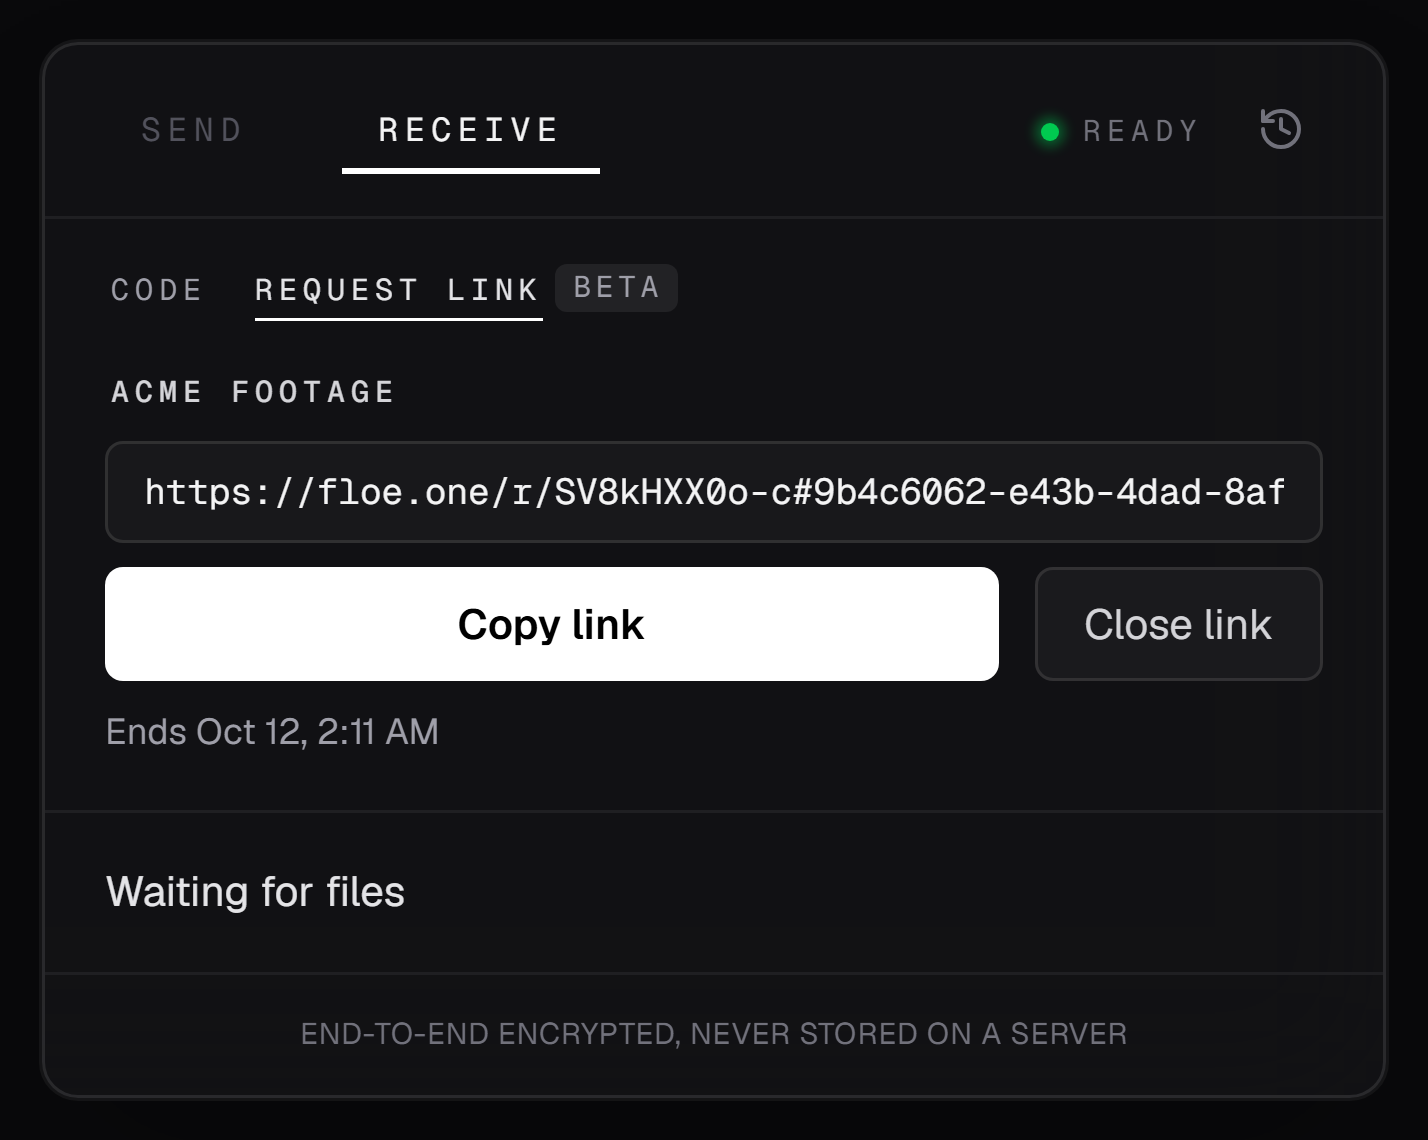
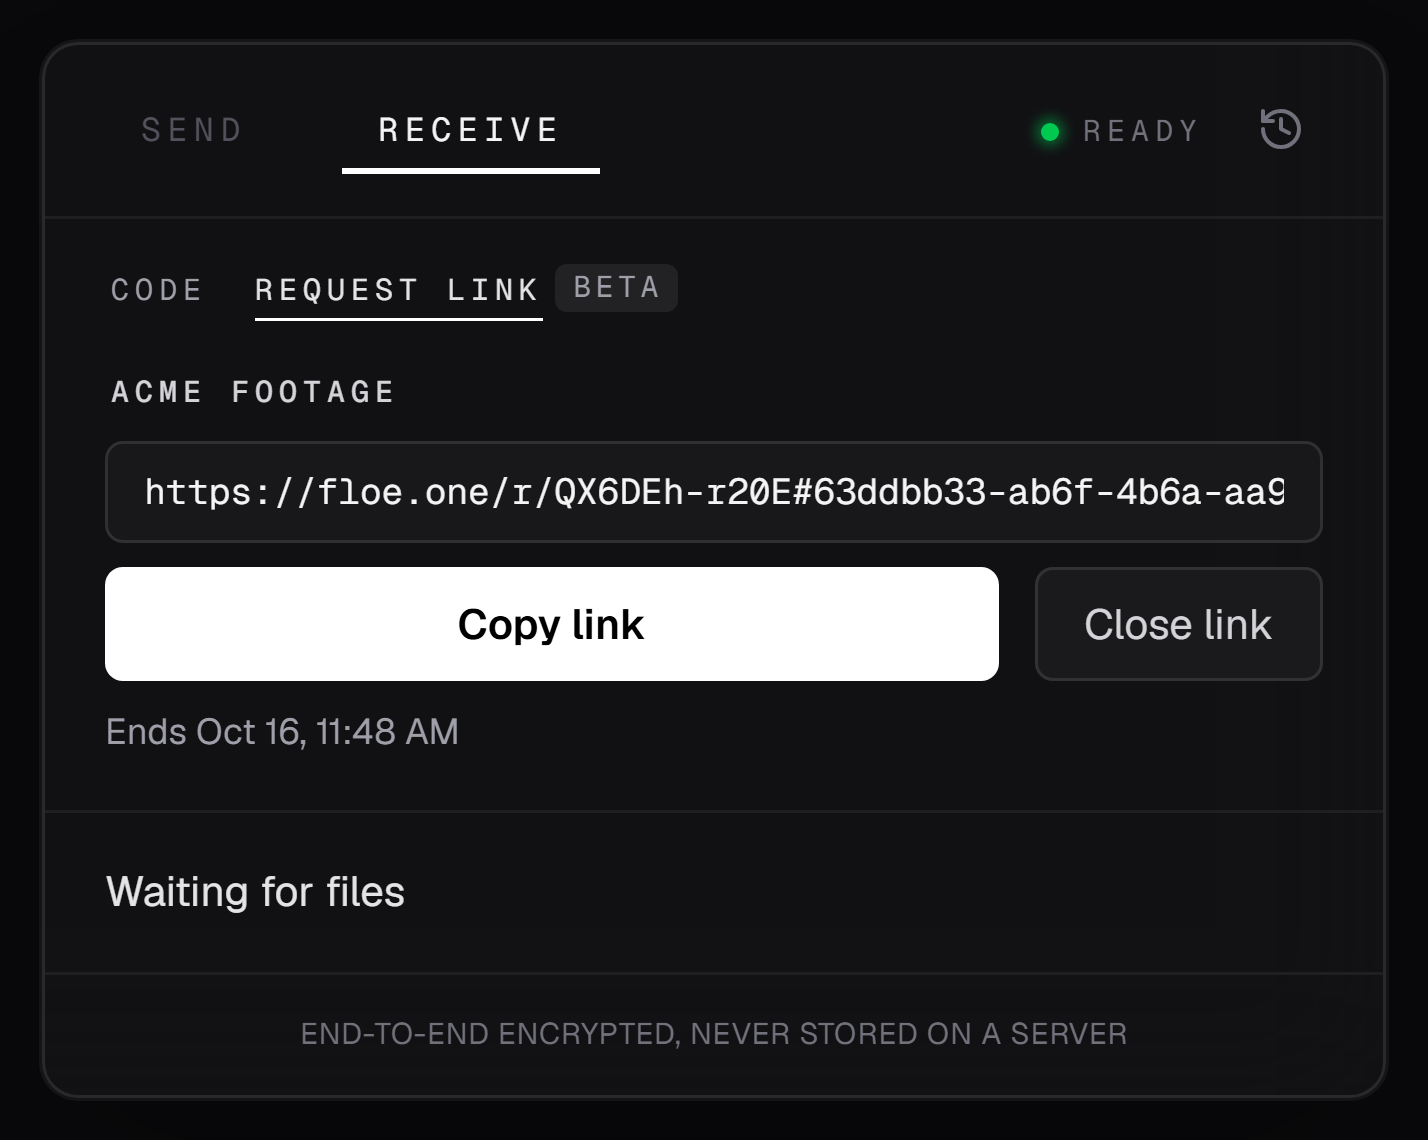
docs: 0.3.1 pictures, version examples, and the lines the releases add
- The eight Floe Desktop pictures are re-taken from the release tree (the
  left rail and the request-link lines changed), and the capture manifest
  records the strings each one shows and the files they come from.
- Version examples on the pages this PR rewrites move to v1.11.1 and
  desktop-v0.3.1: sample output, Peer version lines, the ver field, image
  tags, the installer name and the Store package version. Sentences about
  older versions keep their numbers.
- Troubleshooting: a connection that fails while the two devices are still
  connecting reads "Couldn't connect the two devices" from 0.3.1; 0.3.0
  showed "The connection dropped before the transfer finished" there.
- Sending from the web app: what the page shows when floe receive answers
  no at its prompt.
- SELF_HOSTING.md lists TURN_TLS.
- The privacy page's "Send with Floe" paragraph says when the installer
  and the portable build add the entry, as the app now does (approved
  proposal A9-W4).

diff --git a/client/app/privacy/page.tsx b/client/app/privacy/page.tsx
@@ -598,15 +598,19 @@ export default function PrivacyPolicy() {
                             term: 'Right-click menu',
                             body: (
                                 <p>
-                                    The GitHub build adds a &quot;Send with Floe&quot; entry to the
-                                    File Explorer right-click menu. It is on by default: the first time
-                                    the app runs it writes one per-user registry key (with a command
-                                    subkey) that holds the app&apos;s location, and if you move the app
-                                    it rewrites that key at the next start. Turn off &quot;Show in
-                                    right-click menu&quot; in Settings and the key is removed; the
-                                    installer&apos;s uninstall removes it too. The portable zip has no
-                                    uninstaller, so turn the switch off before deleting that build. The
-                                    Microsoft Store build does not offer this entry.
+                                    The GitHub build can add a &quot;Send with Floe&quot; entry to the
+                                    File Explorer right-click menu. To turn it off, use &quot;Show in
+                                    right-click menu&quot; in Settings, and the entry is removed. The
+                                    installer build turns it on by default: each time the app starts
+                                    and the entry is missing, it writes one per-user registry key (with
+                                    a command subkey) that holds the app&apos;s location, unless you
+                                    have turned the switch off. The portable zip adds the entry only
+                                    after you turn the switch on. Floe never touches an entry that
+                                    belongs to another copy of the app, and repairs or removes one
+                                    whose program is gone. The installer&apos;s uninstall removes the
+                                    key too. The portable zip has no uninstaller, so turn the switch
+                                    off before deleting that build. The Microsoft Store build does not
+                                    offer this entry.
                                 </p>
                             ),
                         },

diff --git a/.claude/skills/docs-verify/references/claim-map.md b/.claude/skills/docs-verify/references/claim-map.md
@@ -240,7 +240,7 @@ Script (`links`). cli/cmd/floe/main.go and cli/cmd/floe/update.go (one `https://
 - The update notice: `CheckForUpdate` and `checkForUpdate` (desktop/updatecheck.go: never for a local build, a Store install, the Settings switch off or `FLOE_NO_UPDATE_CHECK`), `updateCacheTTL` (the once-a-day bound), `defaultReleasesURL` (the list endpoint, prereleases kept) and `updateCachePath`; `UpdateNotice` (desktop/frontend/src/components/Toasts.tsx) is the dismissible notice and `DOWNLOAD_URL` (desktop/frontend/src/update.ts) is where it points. The release the page names as the first with the notice is the `<Update>` entry of docs/changelog.mdx that introduced it; no symbol holds it.
 - What an uninstall leaves: `configPath` and `webviewDataPath` (desktop/config.go) and `updateCachePath`, all in the folder under `os.UserConfigDir()` that `cacheFilePath` (cli/internal/selfupdate/version.go) writes to as well, hence "only delete it if you are removing both". Outside that folder: the registry value `setToastDisplayName` writes and the icon `ensureToastIcon` restores in the temp folder (desktop/toast_windows.go), which the page lists for the builds from GitHub. `DisableContextMenu` (desktop/contextmenu.go) is what the portable build's "turn it off first" step runs. The shared default server is `defaultServer` (desktop/endpoints.go) and the default of `flagServer` (cli/cmd/floe/main.go).
 - The uninstaller after desktop-v0.3.0 (A3-B2): the `uninstall` section of project.nsi deletes `${PRODUCT_EXECUTABLE}` (the one file `wails.files` writes) and uninstall.exe by name, then a plain `RMDir $INSTDIR`, which goes only when the folder is empty; `TestUninstallerRemovesOnlyWhatItInstalled` (desktop/installer_test.go) fails on any `RMDir /r` and on a file the installer writes that the uninstaller never deletes. It still deletes the Explorer key whichever copy owns it (DESKTOP-03). Other leftovers: `keepUnreadableConfig` (desktop/config.go) keeps a `desktop.json` that does not parse as `desktop.json.bad` before the defaults are written (A3-B3); `sweepTextTemps` and `sweepStagingTemps` (desktop/transfer.go, run from desktop/app.go at startup and shutdown) remove `floe-text-*` staging folders (A3-B6). Docs: docs/desktop/installation.mdx "Uninstall", docs/desktop/settings.mdx "Where settings are stored", docs/security-privacy.mdx "In Floe Desktop".
-- The Explorer entry at launch (DSK-04, after desktop-v0.3.0): `ContextMenuState` (desktop/contextmenu.go) answers through `contextMenuStateOf`: "self" when the command runs this executable (`sameProgram`: letter case ignored on Windows, DESKTOP-02), "other" for another copy that exists or a command in a shape Floe never writes, "dead" for Floe's shape whose program is gone (DESKTOP-01), "missing" for no entry, "packaged" in a Store build. `initCtxMenu` (desktop/frontend/src/App.tsx) sets the switch on for "self", leaves "other" alone, and for "missing" or "dead" registers when the `floe:ctx-menu` marker is "1", or is unset on a copy `IsInstalled` reads as installed (uninstall.exe beside it); a "dead" entry it would not register it removes. `ContextMenuEnabled` stays bound and answers from the same decision. app.go no longer re-points an entry at startup. Docs: docs/desktop/settings.mdx "Show in right-click menu", docs/desktop/installation.mdx "Uninstall" (the portable paragraph), docs/desktop/sending.mdx (the Explorer paragraph), docs/security-privacy.mdx (the registry row).
+- The Explorer entry at launch (DSK-04, after desktop-v0.3.0): `ContextMenuState` (desktop/contextmenu.go) answers through `contextMenuStateOf`: "self" when the command runs this executable (`sameProgram`: letter case ignored on Windows, DESKTOP-02), "other" for another copy that exists or a command in a shape Floe never writes, "dead" for Floe's shape whose program is gone (DESKTOP-01), "missing" for no entry, "packaged" in a Store build. `initCtxMenu` (desktop/frontend/src/App.tsx) sets the switch on for "self", leaves "other" alone, and for "missing" or "dead" registers when the `floe:ctx-menu` marker is "1", or is unset on a copy `IsInstalled` reads as installed (uninstall.exe beside it); a "dead" entry it would not register it removes. `ContextMenuEnabled` stays bound and answers from the same decision. app.go no longer re-points an entry at startup. Docs: docs/desktop/settings.mdx "Show in right-click menu", docs/desktop/installation.mdx "Uninstall" (the portable paragraph), docs/desktop/sending.mdx (the Explorer paragraph), docs/security-privacy.mdx (the registry row), client/app/privacy/page.tsx (the "Send with Floe" paragraph).
 - Docs: docs/desktop/installation.mdx (the whole page: "Requirements", both tabs of "Choose a channel", "Verify a download", "Check the version", "Update", "Uninstall", "Run alongside the CLI"), docs/introduction.mdx "Pick a Floe" (the Desktop app card: Windows, in Beta), docs/choosing-floe.mdx (the Platforms and Install rows), docs/security-privacy.mdx "In Floe Desktop" (the same paths and leftovers), docs/desktop/settings.mdx ("Check for updates", "Show in right-click menu", "About", "Where settings are stored"), docs/troubleshooting.mdx ("Floe will not start", "There is no right-click menu setting"), client/app/download/page.tsx (the requirements sentences), README.md "Desktop", and the release body the "Publish release" step writes.
 
 ## CLI installers

diff --git a/SELF_HOSTING.md b/SELF_HOSTING.md
@@ -53,6 +53,7 @@ that matter most:
 | `TRUSTED_PROXY_COUNT` | Reverse-proxy hops in front of the server. `0` direct, `1` behind a proxy. |
 | `CLOUDFLARE_TURN_KEY_ID` / `CLOUDFLARE_TURN_KEY_API_TOKEN` | Optional managed TURN via Cloudflare (see below). |
 | `TURN_SECRET` / `TURN_DOMAIN` | Optional self-hosted coturn credentials (see below). |
+| `TURN_TLS` | Optional. `off` (or `false`, `0`, `no`) leaves the `turns:` address (TLS on port 5349) out of the relay list a self-hosted coturn hands out, for a coturn with no TLS certificate. Unset, the list is unchanged. |
 | `POLICY_FILE` | Optional path, inside the container, of the policy file that turns request links on (see [Request links](#request-links)). Unset, or naming a file that does not exist, means request links are off. |
 
 ### Applying a change
@@ -187,6 +188,8 @@ The full steps, the limits, and the rule about matching versions are in
   silently fails. The giveaway is `Default realm: localdomain` in its logs, and
   recovery needs `rmdir coturn/turnserver.conf` first, because copying onto a
   directory succeeds and writes the file inside it.
+  A coturn with no TLS certificate cannot answer the `turns:` address on port 5349,
+  so set `TURN_TLS=off` and clients stop trying it.
   TURN needs its own ports and cannot be served through an HTTP reverse proxy; see
   [the TURN relay guide](https://www.floe.one/docs/self-hosting/turn-relay).
 
